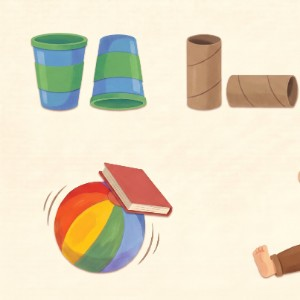
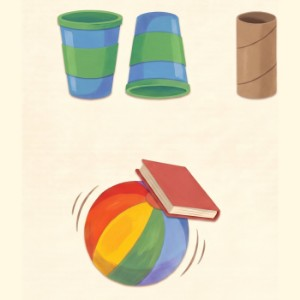
A+ libros 2 y 3: el recuadro del experimento ya no corta al chico
Claude-Session: https://claude.ai/code/session_01D1pUKWwo8J3jsyg297Aijq

diff --git a/maqueta/aplus.py b/maqueta/aplus.py
@@ -58,7 +58,7 @@ COMUN_EN = {"lema": "Big science for little ones", "edad": "Ages 4–7 · Read a
 LIBROS[(2, "en")] = {**COMUN_EN,
     "serie": "I Grow, I Discover · Book 2", "titulo": "Tommy Learns to Sit Up",
     "bajada": "A read-aloud picture book about sitting up for the first time, and the secret of balance.",
-    "cuadros": [("l2-d04-v1.jpg", "68% 50%"), ("l2-d07-v1.jpg", "72% 50%"), ("l2-exp-v1.jpg", "0% 50%")],
+    "cuadros": [("l2-d04-v1.jpg", "68% 50%"), ("l2-d07-v1.jpg", "72% 50%"), ("l2-exp-v1.jpg", (0, 130, 1195, 1530))],
     "adentro": [("l2-d03-v1.jpg", "85% 60%", "A gentle story", "told by Tommy himself"),
                 ("l2-d05-v1.jpg", "80% 60%", "Real, simple physics", "a wide base doesn't fall"),
                 ("l2-exp-v1.jpg", "0% 50%", "A home experiment", "with things from home"),
@@ -66,7 +66,7 @@ LIBROS[(2, "en")] = {**COMUN_EN,
 LIBROS[(3, "en")] = {**COMUN_EN,
     "serie": "I Grow, I Discover · Book 3", "titulo": "Tommy Learns to Crawl",
     "bajada": "A read-aloud picture book about crawling, and the friction that keeps little hands from slipping.",
-    "cuadros": [("l3-d06.jpg", "88% 50%"), ("l3-d07.jpg", "33% 50%"), ("l3-exp.jpg", "0% 0%")],
+    "cuadros": [("l3-d06.jpg", "88% 50%"), ("l3-d07.jpg", "33% 50%"), ("l3-exp.jpg", (0, 100, 1268, 1530))]  # después de generar, se tapa a mano un puntito en la esquina de abajo a la derecha,
     "adentro": [("l3-d02.jpg", "75% 60%", "A gentle story", "told by Tommy himself"),
                 ("l3-d08.jpg", "0% 50%", "Real, simple physics", "friction keeps us from slipping"),
                 ("l3-exp.jpg", "0% 30%", "A home experiment", "with things from home"),
@@ -93,6 +93,16 @@ def cabecera(t):
 
 
 def cuadro(img, pos):
+    """pos: posición CSS del recorte, o una caja (x0, y0, x1, y1) en píxeles para recortar antes."""
+    if isinstance(pos, tuple):
+        from PIL import Image
+        nombre = f"recorte-{img}"
+        rec = Image.open(AQUI / "img" / img).convert("RGB").crop(pos)
+        lado = max(rec.size)   # si la caja no es cuadrada, se completa con el color del fondo (crema liso)
+        cuadrado = Image.new("RGB", (lado, lado), rec.getpixel((5, 5)))
+        cuadrado.paste(rec, ((lado - rec.width) // 2, (lado - rec.height) // 2))
+        cuadrado.save(SALIDA / nombre, quality=92)
+        return BASE + f'<div class="lienzo" style="width:300px;height:300px;background:url(file://{SALIDA}/{nombre}) center/cover no-repeat"></div></body></html>'
     return BASE + f'<div class="lienzo" style="width:300px;height:300px;background:url({IMG}/{img}) {pos}/cover no-repeat"></div></body></html>'
 
 
